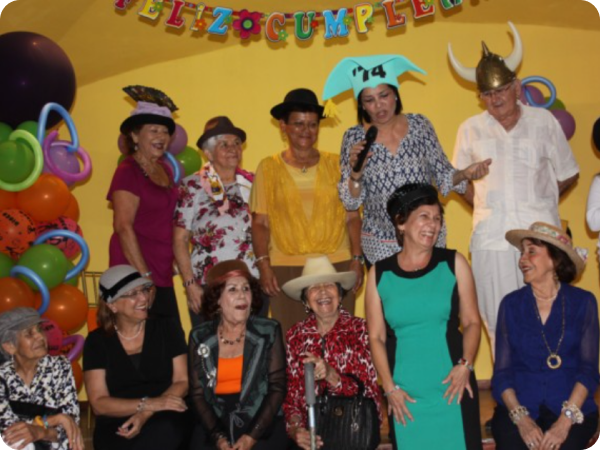
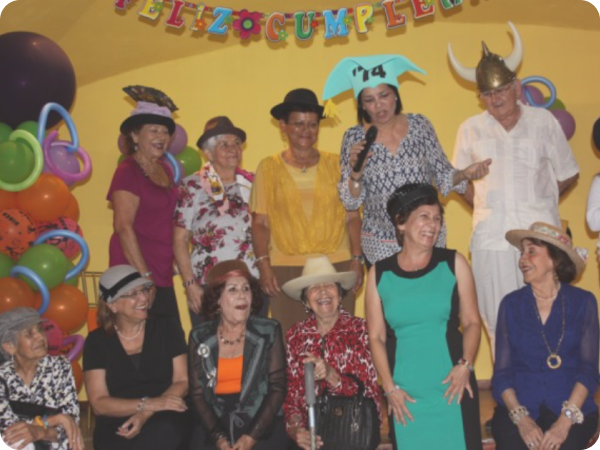
optimizando fotos

diff --git a/index.html b/index.html
@@ -228,7 +228,7 @@
                                 src="https://www.google.com/maps/embed?pb=!1m18!1m12!1m3!1d199666.5651251294!2d-121.58334177520186!3d38.56165006739519!2m3!1f0!2f0!3f0!3m2!1i1024!2i768!4f13.1!3m3!1m2!1s0x809ac672b28397f9%3A0x921f6aaa74197fdb!2sSacramento%2C%20CA%2C%20USA!5e0!3m2!1sen!2sbd!4v1647608789441!5m2!1sen!2sbd"
                                 width="400" height="300" loading="lazy">
                             </iframe> -->
-                        <img src="./images/Leyendo-DICIEMBRE-2010.jpg" width="400" height="300" alt="foto familiar">
+                        <img src="./images/Leyendo-DICIEMBRE-2010.png" width="400" height="300" alt="foto familiar">
                     </figure>
                 </section>
 
@@ -911,7 +911,7 @@
                                         <ion-icon name="eye-outline"></ion-icon>
                                     </div>
 
-                                    <img src="./images/Leyendo-DICIEMBRE-2010.jpg" alt="Trina leyendo" loading="lazy">
+                                    <img src="./images/Leyendo-DICIEMBRE-2010.png" alt="Trina leyendo" loading="lazy">
                                 </figure>
 
                                 <h3 class="project-title">Leyendo</h3>
